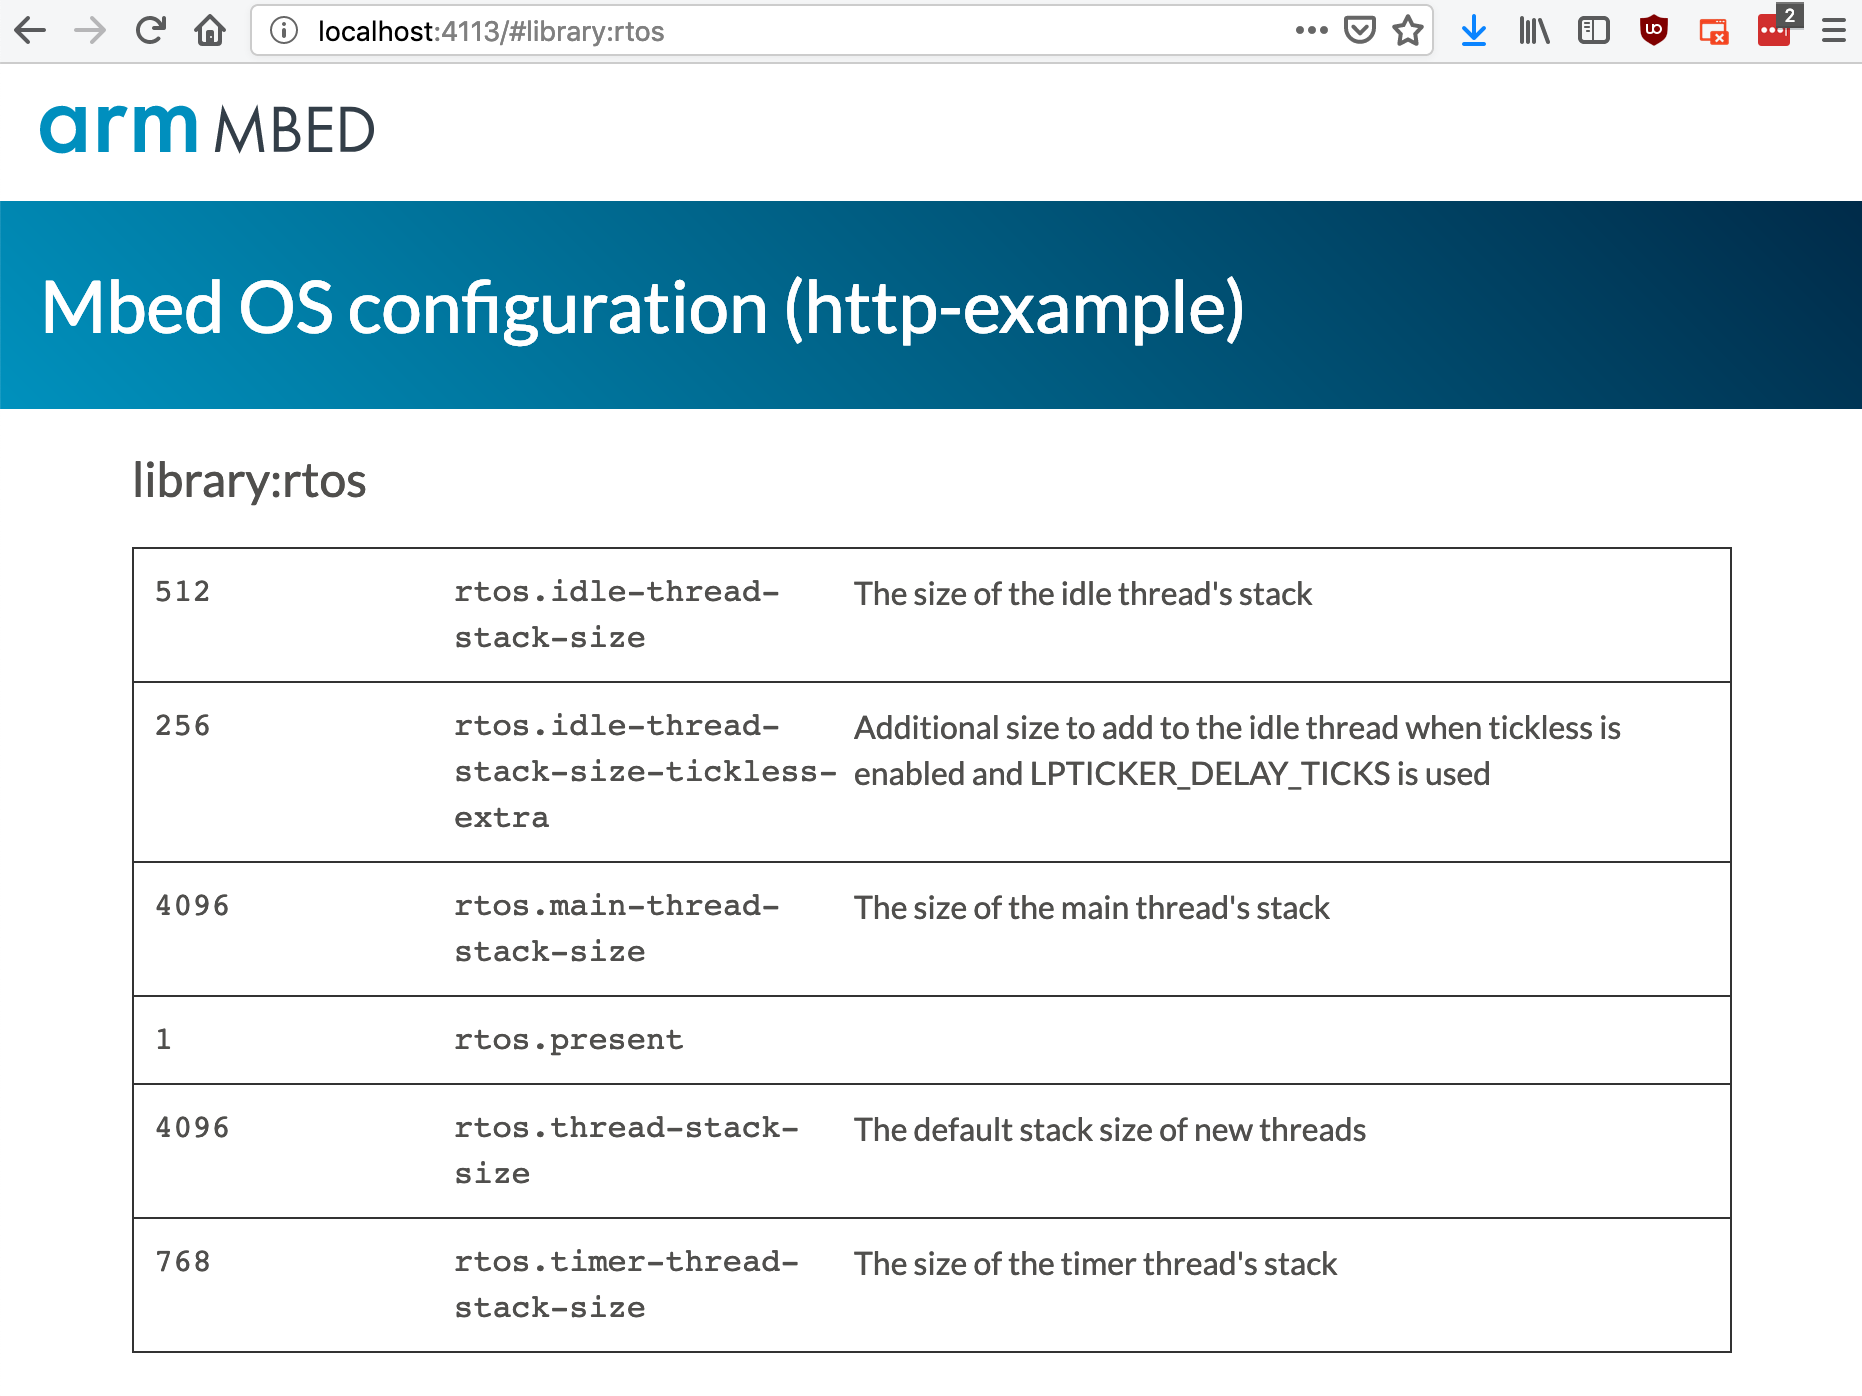
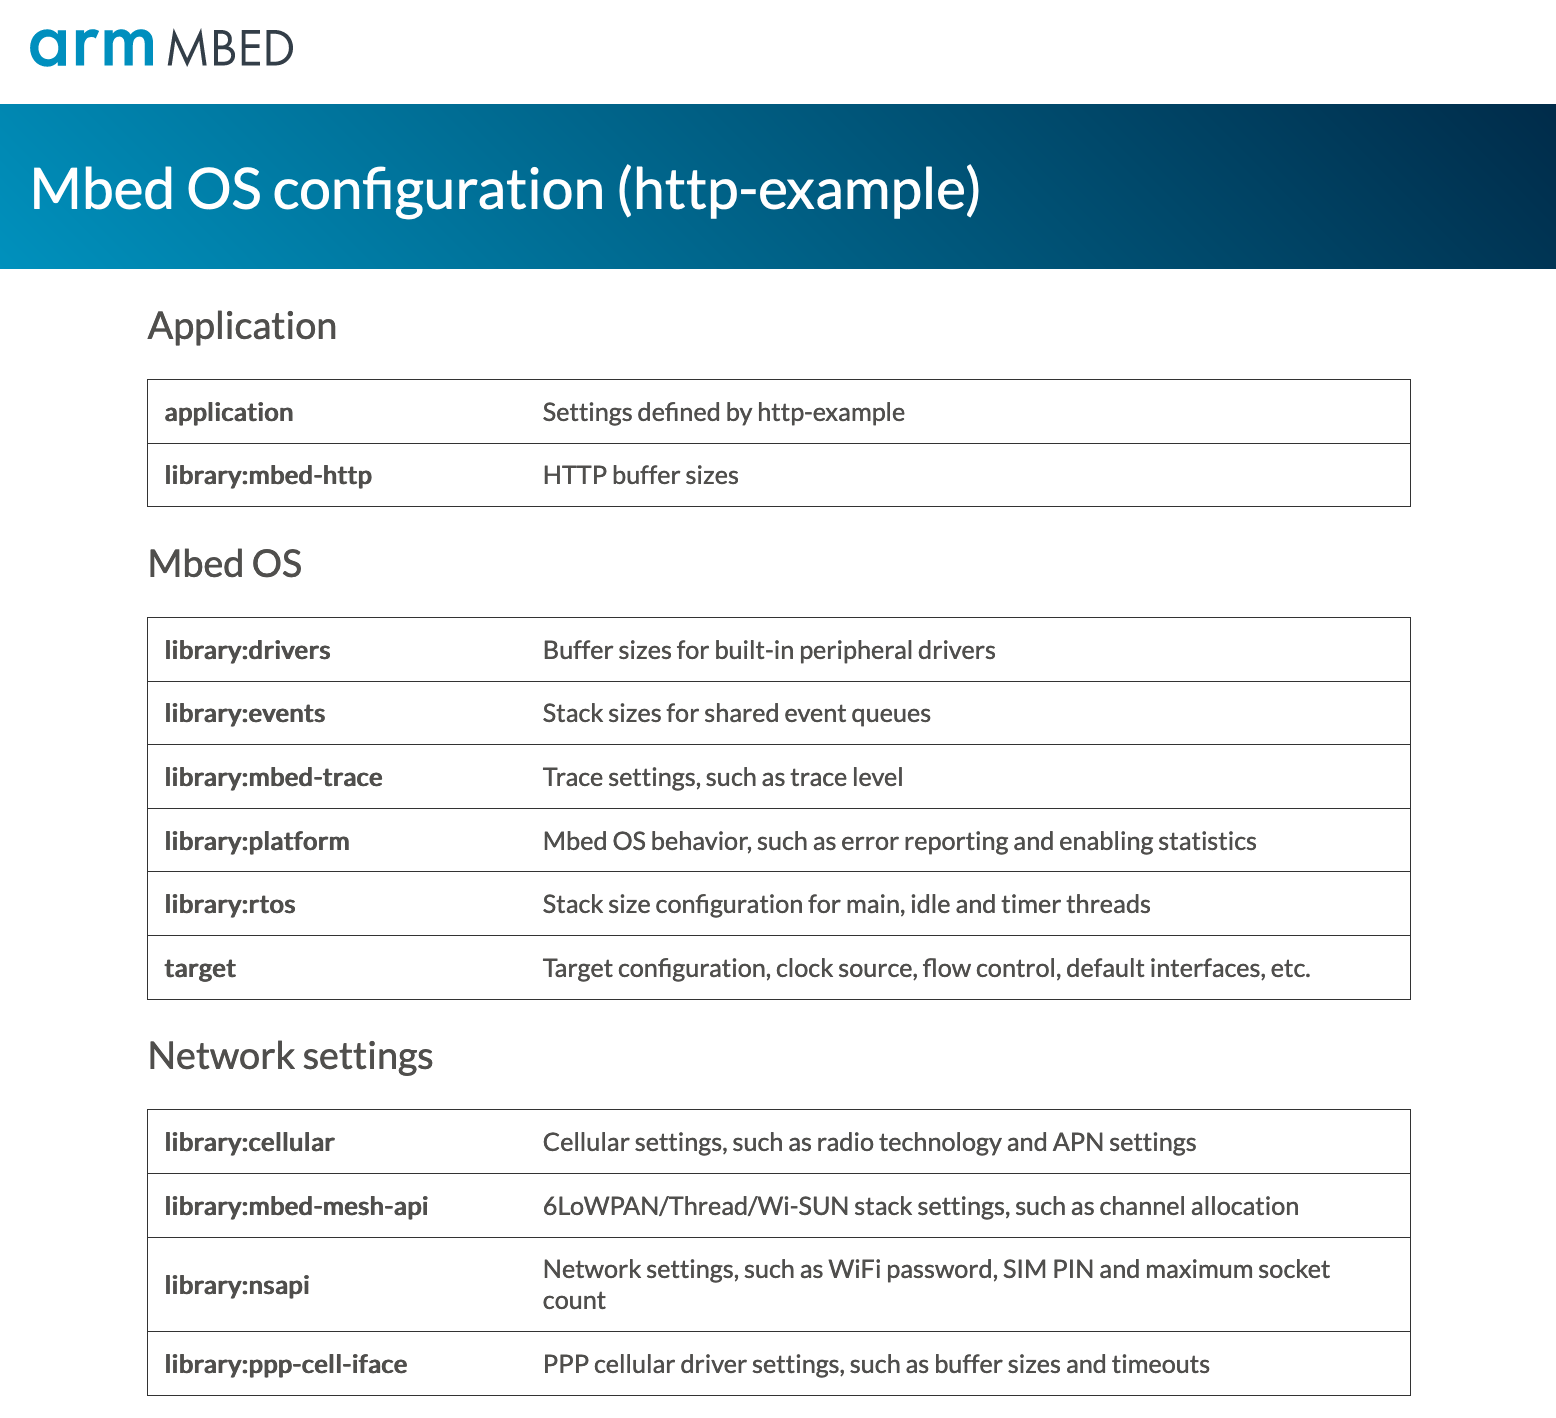
Add descriptions and grouping for libraries

diff --git a/views/index.html b/views/index.html
@@ -20,8 +20,8 @@
 
     <h2><span id="title">Menu</span></h2>
 
-    <ul class="options">
-    </ul>
+    <table class="options">
+    </table>
   </section>
 
   <script src="/socket.io/socket.io.js"></script>
@@ -31,29 +31,126 @@
       const macros = {{{macros}}};
       const config = {{{config}}};
 
-      let configByGroup = config.reduce((curr, c) => {
-        if (!curr[c.definedBy]) {
-          curr[c.definedBy] = [];
+      const groupDescriptions = {
+        'application': 'Settings defined by {{name}}',
+        'library:GEMALTO_CINTERION': 'Cinterion PLAS9 Cat 6 IoT Module',
+        'library:GENERIC_AT3GPP': 'Modules supporting the standard 3GPP AT commands',
+        'library:QUECTEL_BC95': 'Quectel BC95 NB-IoT Module',
+        'library:QUECTEL_BG96': 'Quectel BG96 LTE Cat M1/Cat NB1/EGPRS Module',
+        'library:QUECTEL_M26': 'Quectel M26 GSM/GPRS Module',
+        'library:QUECTEL_UG96': 'Quectel UG96 UMTS/HSPA Module',
+        'library:SARA4_PPP': 'u-blox SARA-R4/N4 LTE Cat M1/NB1 Module',
+        'library:TELIT_HE910': 'Telit HE910 HSPA+ LGA Module',
+        'library:UBLOX_AT': 'Generic u-blox module over AT commands (using IP stack in module)',
+        'library:UBLOX_PPP': 'Generic u-blox module over PPP interface (using IP stack in Mbed OS)',
+        'library:atmel-rf': 'Atmel AT86RF233 / AT86RF212B 802.15.4 transceiver',
+        'library:cellular': 'Cellular settings, such as radio technology and APN settings',
+        'library:drivers': 'Buffer sizes for built-in peripheral drivers',
+        'library:esp8266': 'ESP8266 WiFi Module',
+        'library:events': 'Stack sizes for shared event queues',
+        'library:filesystem': 'N/A',
+        'library:ism43362': 'InventekSys ISM43362 WiFi Module',
+        'library:littlefs': 'LittleFS settings, such as block size and buffer sizes',
+        'library:lora': 'LoRaWAN settings, such as frequency plan and connection keys',
+        'library:lwip': 'LwIP IPv4/IPv6 stack settings, such as feature support and buffer sizes',
+        'library:mbed-http': 'HTTP buffer sizes',
+        'library:mbed-mesh-api': '6LoWPAN/Thread/Wi-SUN stack settings, such as channel allocation',
+        'library:mbed-trace': 'Trace settings, such as trace level',
+        'library:mcr20a': 'NXP 2.4 GHz 802.15.4 transceiver',
+        'library:nanostack': 'Nanostack IPv6 stack settings',
+        'library:nsapi': 'Network settings, such as WiFi password, SIM PIN and maximum socket count',
+        'library:nvstore': 'NVStore Key/value storage settings, such as flash storage areas',
+        'library:platform': 'Mbed OS behavior, such as error reporting and enabling statistics',
+        'library:ppp-cell-iface': 'PPP cellular driver settings, such as buffer sizes and timeouts',
+        'library:rtos': 'Stack size configuration for main, idle and timer threads',
+        'library:s2lp': 'ST S2-LP sub-GHz 802.15.4 transceiver',
+        'library:storage': 'KVStore storage settings, specifies the storage type',
+        'library:storage_filesystem': 'KVStore FS type, sets block device and file system type',
+        'library:storage_filesystem_no_rbp': 'KVStore FS No RBP type, sets block device and file system type',
+        'library:storage_tdb_external': 'KVStore TDB External type, sets block device and file system type',
+        'library:storage_tdb_external_no_rbp': 'KVStore TDB External No RBP type, sets block device and file system type',
+        'library:storage_tdb_internal': 'KVStore TDB Internal type, sets block device and file system type',
+        'target': 'Target configuration, clock source, flow control, default interfaces, etc.'
+      };
+
+      const groupings = {
+        'Application': [ 'application' ],
+        'Mbed OS': [ 'library:drivers', 'library:events', 'library:mbed-trace', 'library:platform', 'library:rtos', 'target' ],
+        'Network settings': [ 'library:cellular', 'library:mbed-mesh-api', 'library:nsapi', 'library:ppp-cell-iface' ],
+        'Network stacks': [ 'library:lora', 'library:lwip', 'library:nanostack' ],
+        'Cellular drivers': [ 'library:GEMALTO_CINTERION', 'library:GENERIC_AT3GPP', 'library:QUECTEL_BC95', 'library:QUECTEL_BG96', 'library:QUECTEL_M26', 'library:QUECTEL_UG96', 'library:SARA4_PPP', 'library:TELIT_HE910', 'library:UBLOX_AT', 'library:UBLOX_PPP' ],
+        'WiFi drivers': [ 'library:esp8266', 'library:ism43362' ],
+        '802.15.4 drivers': [ 'library:atmel-rf', 'library:mcr20a', 'library:s2lp' ],
+        'KVStore': [ 'library:storage', 'library:storage_filesystem', 'library:storage_filesystem_no_rbp', 'library:storage_tdb_external', 'library:storage_tdb_external_no_rbp', 'library:storage_tdb_internal' ],
+        'Storage': [ 'library:filesystem', 'library:littlefs', 'library:nvstore' ],
+      };
+      const groupingsInverted = Object.keys(groupings).reduce((curr, g) => {
+        for (let lib of groupings[g]) {
+          curr[lib] = g;
         }
-        curr[c.definedBy].push(c);
+        return curr;
+      }, {});
+
+      // first group by definedBy
+      let configByGroup = config.reduce((curr, c) => {
+        let key = c.definedBy;
+        if (key.indexOf('target:') === 0) {
+          key = 'target';
+        }
+
+        if (key.indexOf('library:nanostack') === 0) {
+          key = 'library:nanostack';
+        }
+
+        if (!curr[key]) {
+          curr[key] = [];
+        }
+        curr[key].push(c);
+        return curr;
+      }, {});
+
+      // then group according to the groupings descriptor
+      const configByGroupGrouping = Object.keys(configByGroup).reduce((curr, groupName) => {
+        let category = groupingsInverted[groupName];
+        if (!category) {
+          console.log('cannot find', groupName);
+          category = 'Application';
+        }
+        if (!curr[category]) {
+          curr[category] = {};
+        }
+        curr[category][groupName] = configByGroup[groupName];
         return curr;
       }, {});
 
       function loadMenu(name) {
+        let menu = document.querySelector('#main-menu');
+        menu.innerHTML = '';
+
+        let groupName = name.replace('library:', '') + '.';
         location.hash = '#' + name;
-        document.querySelector('#main-menu .options').innerHTML = '';
-        document.querySelector('#main-menu #title').textContent = name;
-        configByGroup[name].forEach(g => {
-          var el = document.createElement('li');
-          var val = document.createElement('span');
+
+        let h2 = document.createElement('h2');
+        h2.textContent = name;
+
+        let table = document.createElement('table');
+        table.classList.add('options');
+
+        configByGroup[name].sort().forEach(g => {
+          // not overridable
+          if (/\.present$/.test(g.name)) return;
+
+          var el = document.createElement('tr');
+          var val = document.createElement('td');
           val.classList.add('value');
           val.textContent = typeof g.value !== 'undefined' ? g.value : 'Not Set';
+          val.title = val.textContent;
 
-          var name = document.createElement('span');
+          var name = document.createElement('td');
           name.classList.add('name');
-          name.textContent = g.name;
+          name.textContent = g.name.replace(groupName, '');
 
-          var desc = document.createElement('span');
+          var desc = document.createElement('td');
           if (g.description) {
             desc.textContent += g.description;
           }
@@ -65,21 +162,47 @@
             if (v === null) return;
 
             val.textContent = v;
+            val.title = val.textContent;
             g.value = v;
             socket.emit('change-value', g.name, v);
           }
-          document.querySelector('#main-menu .options').appendChild(el);
+          table.appendChild(el);
         });
+
+        menu.appendChild(h2);
+        menu.appendChild(table);
       }
 
       function loadMain() {
-        document.querySelector('#main-menu .options').innerHTML = '';
-        document.querySelector('#main-menu #title').textContent = 'Main menu';
-        Object.keys(configByGroup).sort().forEach(g => {
-          var el = document.createElement('li');
-          el.textContent = g;
-          el.onclick = () => loadMenu(g);
-          document.querySelector('#main-menu .options').appendChild(el);
+        let menu = document.querySelector('#main-menu');
+        menu.innerHTML = '';
+
+        Object.keys(groupings).forEach(gk => {
+          let h2 = document.createElement('h2');
+          h2.textContent = gk;
+
+          let table = document.createElement('table');
+          table.classList.add('options');
+
+          Object.keys(configByGroupGrouping[gk]).forEach(g => {
+            var el = document.createElement('tr');
+            var name = document.createElement('td');
+            name.classList.add('title');
+            name.textContent = g;
+            el.appendChild(name);
+
+            var desc = document.createElement('td');
+            if (groupDescriptions[g]) {
+              desc.textContent = groupDescriptions[g];
+            }
+            el.appendChild(desc);
+
+            el.onclick = () => loadMenu(g);
+            table.appendChild(el);
+          });
+
+          menu.appendChild(h2);
+          menu.appendChild(table);
         });
       }
 

diff --git a/public/style.css b/public/style.css
@@ -4,7 +4,7 @@
 #logo { width: 167px; }
 body {
   font-family: "Lato", sans-serif;
-  margin: 0;
+  margin: 0 0 20px 0;
   padding: 0 20px;
   font-weight: 300;
   color: rgb(80, 79, 77);
@@ -113,27 +113,30 @@ h2 {
 
 .options {
   padding: 0;
+  width: 100%;
   border-bottom: solid 1px #333;
+  border-collapse: collapse;
 }
 
-.options li {
-  list-style: none;
-  padding: 10px;
+.options tr {
   border: solid 1px #333;
   border-bottom: none;
 }
-.options li:hover {
+.options tr:hover {
   background: rgb(199, 239, 245);
   cursor: pointer;
 }
-.options li {
-  display: flex;
+
+.options td {
+  padding: 10px;
 }
+
 .options .value {
-  min-width: 150px;
-  max-width: 150px;
+  min-width: 130px;
+  max-width: 130px;
   overflow-y: auto;
   font-family: monospace;
+  text-overflow: ellipsis;
 }
 
 .options .name {
@@ -141,4 +144,10 @@ h2 {
   max-width: 200px;
   overflow-y: auto;
   font-family: monospace;
+  text-overflow: ellipsis;
+}
+
+.options .title {
+  width: 30%;
+  font-weight: bold;
 }

diff --git a/README.md b/README.md
@@ -4,9 +4,11 @@ Proof of concept. Adds a visual interface for managing configuration for Mbed OS
 
 ![screenshot of mbed-config](docs/screenshot.png)
 
+![screenshot of mbed-config #2](docs/screenshot-2.png)
+
 ## Installation
 
-1. Install a recent version of Node.js.
+1. Install a recent version of [Node.js](https://nodejs.org/en/).
 1. Clone this library:
 
     ```
